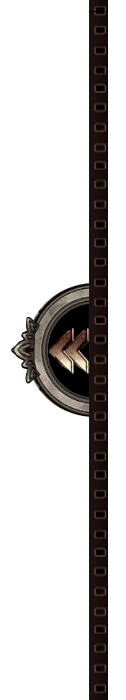
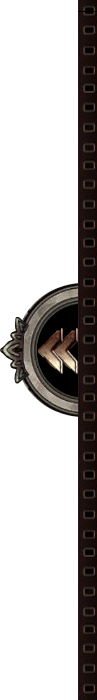
finished/Mobile Sidebar, going to finish rest of Mobile next

Changed region(s): [[0.0, 0.0, 1.0, 1.0]]

diff --git a/src/components/Home/Home.jsx b/src/components/Home/Home.jsx
@@ -82,24 +82,36 @@ const Home = () => {
 
     return (
         <div className='bgImg'>
-            <div className={sidebarAnim ? 'focusSidebar' : 'closed'}/>
-            <img src={imgs.sidebar.open} alt='' onClick={handleChange} className='closedSidebarBtn' name='sidebarBtn'/>
-            <div className={sidebar ? 'sidebar' : 'sidebar' + ' closed'} id={sidebarAnim ? 'open' : 'close'}>
-                <img src={imgs.sidebar.close} alt='' onClick={handleChange} className='openedSidebarBtn' name='sidebarBtn'/>
-                <div className='container'>
-                    <button type='button' name='dropdownBtn' onClick={handleChange}>Idioma</button>
-                    {open ? 
-                        <div className='dropdown'>
-                            <ul>
-                                <li><button type='button' onClick={() => {setLang('es'); setOpen(false)}}>Español</button></li>
-                                <li><button type='button' onClick={() => {setLang('en'); setOpen(false)}}>English</button></li>
-                            </ul>
-                        </div>
-                        :
-                        null
-                    }
-                </div>
+            <div className='container'>
+                <button type='button' name='dropdownBtn' onClick={handleChange}>Idioma</button>
+                {open ? 
+                    <div className='dropdown'>
+                        <ul>
+                            <li><button type='button' onClick={() => {setLang('es'); setOpen(false)}}>Español</button></li>
+                            <li><button type='button' onClick={() => {setLang('en'); setOpen(false)}}>English</button></li>
+                        </ul>
+                    </div>
+                    :
+                    null
+                }
             </div>
+
+            {/* Cellphone Sidebar */}
+            <div className={sidebarAnim ? 'focusSidebarC' : 'closedC'}/>
+            <img src={imgs.sidebar.open} alt='' onClick={handleChange} className='closedSidebarBtnC' name='sidebarBtn'/>
+            <div className={sidebar ? 'sidebarContainerC' : 'sidebarContainerC' + ' closedC'} id={sidebarAnim ? 'open' : 'close'}>
+                <div className='sidebarC'>
+
+                </div>
+                <img src={imgs.sidebar.close} alt='' onClick={handleChange} className='openedSidebarBtnC' name='sidebarBtn'/>
+            </div>
+
+            {/* Tablet Sidebar */}
+            <div className='sidebarContainerT'>
+
+            </div>
+
+            {/* Desktop Sidebar */}
             <div>
                 <span>Javier Iñaki Carro</span>
                 <span>Fullstack Web Developer</span>
@@ -116,8 +128,8 @@ const Home = () => {
             </div>
             <div>
                 <h2>{texts[lang].contactT}</h2>
-                <Link to={{pathname: "mailto:javier.carro.trabajo@gmail.com"}} target="_blank"><img src='' alt='Gmail'/></Link>
-                <Link to={{pathname: 'https://www.linkedin.com/in/javier-iñaki-carro/'}} target='_blank'><img src='' alt='LinkedIn'/></Link>
+                <Link to={{pathname: "mailto:javier.carro.trabajo@gmail.com"}} target="_blank" rel="noopener noreferrer"><img src='' alt='Gmail'/></Link>
+                <Link to={{pathname: 'https://www.linkedin.com/in/javier-iñaki-carro/'}} target='_blank' rel="noopener noreferrer"><img src='' alt='LinkedIn'/></Link>
             </div>
         </div>
     )

diff --git a/src/components/Home/Home.css b/src/components/Home/Home.css
@@ -1,10 +1,34 @@
 .bgImg {
-    max-width: 100%;
-    height: auto;
+    position: relative;
+    min-width: 100%;
+    min-height: 100%;
     background-image: url(../../images/Background.jpg);
     background-size: 100% 100%;
 }
 
+.test {
+    position: fixed;
+    width: 30%;
+    height: 100%;
+    right: 0px;
+    border: 1px solid red;
+}
+
+.container {
+    position: relative;
+    display: inline-block;
+}
+.dropdown {
+    position: absolute;
+    top: 100%;
+    left: 0;
+    width: 300px;
+    z-index: 2;
+    border: 2px solid red;
+    background-color: white;
+}
+
+/* Cellphone Styles */
 @keyframes sidebarAniOp {
     from {
         transform: translateX(0);
@@ -37,34 +61,46 @@
     animation-iteration-count: 1;
 }
 
-.sidebar {
+.sidebarContainerC {
     position: fixed;
+    display: flex;
+    flex-direction: row-reverse;
+    align-content: flex-start;
     width: 25%;
     height: 100%;
+    top: 0px;
     right: 0px;
+    /* border: 1px solid blue; */
+}
+.sidebarC {
+    position: relative;
+    display: inline-block;
+    height: 100%;
+    min-width: 100%;
     background-image: url(../../images/SidebarInterior.jpg);
-    background-position: center right;
+    background-size: 100%;
     background-repeat: repeat-y;
 }
-.closed {
+.closedC {
     display: none;
 }
-.openedSidebarBtn {
-    position: absolute;
+.openedSidebarBtnC {
+    position: relative;
     display: inline-block;
     height: 100%;
-    width: 100%;
-    left: -83%;
+    min-width: 83.5%;
+    left: 3px;
     z-index: 1;
+    /* border: 1px solid red; */
 }
-.closedSidebarBtn {
+.closedSidebarBtnC {
     position: fixed;
-    display: inline-block;
+    /* display: inline-block; */
     height: 100%;
-    width: 25%;
-    right: -4.2%;
+    width: 20%;
+    right: 0;
 }
-.focusSidebar {
+.focusSidebarC {
     position: fixed;
     height: 100%;
     width: 100%;
@@ -76,24 +112,17 @@
     z-index: 0;
 }
 
-.container {
-    position: relative;
-    display: inline-block;
-}
-.dropdown {
-    position: absolute;
-    top: 100%;
-    left: 0;
-    width: 300px;
-    z-index: 2;
-    border: 2px solid red;
-    background-color: white;
-}
-
-.test {
+/* Tablet Styles */
+.sidebarContainerT {
     position: fixed;
-    width: 30%;
+    flex-direction: row-reverse;
+    align-content: flex-start;
+    width: 20%;
     height: 100%;
+    top: 0px;
     right: 0px;
-    border: 1px solid red;
+    background-image: url(../../images/SidebarTablet.png);
+    background-size: 100%;
+    background-repeat: repeat-y;
+    /* border: 1px solid blue; */
 }

diff --git a/src/index.css b/src/index.css
@@ -17,6 +17,19 @@
 [class*="col-"] {
   width: 100%;
 }
+.sidebarContainerT {
+  display: none;
+}
+
+@media only screen and (min-width: 426px) {
+  /* For Tablet */
+  .closedSidebarBtnC {
+    display: none;
+  }
+  .sidebarContainerT {
+    display: flex;
+  }
+}
 
 @media only screen and (min-width: 768px) {
   /* For desktop: */

diff --git a/src/images/index.js b/src/images/index.js
@@ -1,11 +1,13 @@
 import open from './Sidebar.png';
 import close from './SidebarClose.png';
 import interior from "./SidebarInterior.jpg";
+import full from './SidebarFullOpen.png';
 
 export default {
     sidebar: {
         open,
         close,
-        interior
+        interior,
+        full
     }
 }
